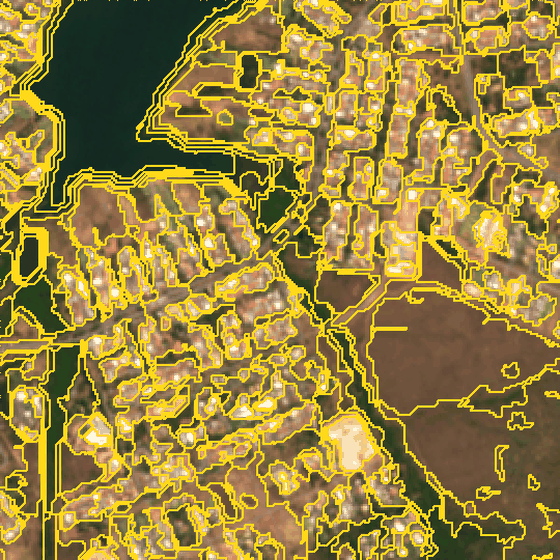
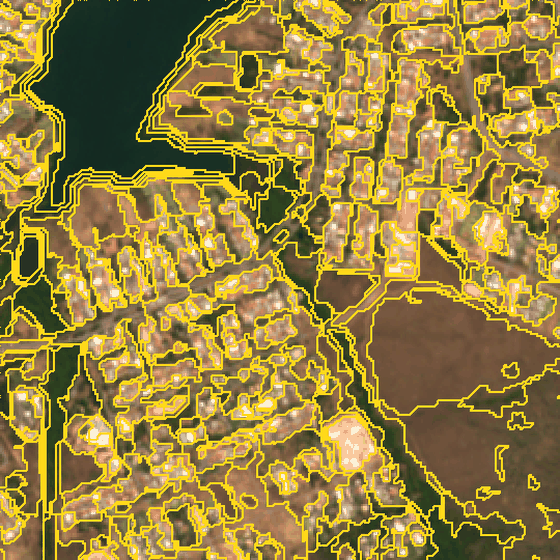
docs(tutorials): the object-based series runs again after the fixes
objects.accuracy with design = objects where the reference comes from
objects.sample (the area estimates weight each object by its area):
adjusted accuracies and areas updated in first-map-by-objects,
classifying-by-samples, classes-without-samples and editing-by-hand;
segment.felzenszwalb now keeps min_size (what-is-an-object: 4,063 ->
1,643 objects); a note on design in from-ecognition; a sentence fixed in
shaping-objects.

diff --git a/website/figures/object-based-image-analysis/editing-by-hand.py b/website/figures/object-based-image-analysis/editing-by-hand.py
@@ -129,7 +129,7 @@ def frozen(src="edit"):
     m = node("feat_a", "objects.features", f'{{ objects = "{src}.objects", image = "refl.image" }}',
              f'{{ features = {tl(FEATURES)}, texture_bands = ["brightness"], swir = "swir16" }}')
     m += node("rf_a", "objects.classify", '{ objects = "feat_a.objects", model = "fit.model", samples = "samples.table" }')
-    m += node("acc_a", "objects.accuracy", '{ objects = "rf_a.objects", samples = "ref.vector" }')
+    m += node("acc_a", "objects.accuracy", '{ objects = "rf_a.objects", samples = "ref.vector" }', '{ design = "objects" }')
     m += node("idmap_a", "objects.to_map", '{ objects = "rf_a.objects" }', '{ what = "id" }')
     return m + node("clsmap_a", "objects.to_map", '{ objects = "rf_a.objects" }', '{ what = "class" }')
 
@@ -141,7 +141,7 @@ def maps(src="feat"):
 
 
 def acc(ref="ref"):
-    return node("acc", "objects.accuracy", f'{{ objects = "rf.objects", samples = "{ref}.vector" }}')
+    return node("acc", "objects.accuracy", f'{{ objects = "rf.objects", samples = "{ref}.vector" }}', '{ design = "objects" }')
 
 
 def run(model, name, writes, log=False):

diff --git a/website/figures/object-based-image-analysis/classes-without-samples.py b/website/figures/object-based-image-analysis/classes-without-samples.py
@@ -222,7 +222,7 @@ def main():
     m += som_nodes(5, ", rows = 8, cols = 8") + named("clsom", SOM_NAMES, "named_som")
     m += train_nodes + ref_nodes + rf
     for a in ("named", "named_som", "rf"):
-        m += node("acc_" + a, "objects.accuracy", f'{{ objects = "{a}.objects", samples = "ref.vector" }}')
+        m += node("acc_" + a, "objects.accuracy", f'{{ objects = "{a}.objects", samples = "ref.vector" }}', '{ design = "objects" }')
     m += node("named_map", "objects.to_map", '{ objects = "named.objects" }', '{ what = "class" }')
     writes = {"cl.map": "km5.tif", "clsom.map": "som8.tif", "rf.map": "rf.tif", "named_map.map": "named_class.tif",
               "km.centres": "centres.csv", "km.choice": "choice1.csv", "som.codebook": "codebook8.csv",
@@ -343,7 +343,7 @@ def main():
 
     # the slider over k
     def acc(src):
-        return node("acc", "objects.accuracy", f'{{ objects = "{src}.objects", samples = "ref.vector" }}')
+        return node("acc", "objects.accuracy", f'{{ objects = "{src}.objects", samples = "ref.vector" }}', '{ design = "objects" }')
 
     frames = []
     for k in range(2, 9):

diff --git a/website/figures/object-based-image-analysis/classifying-by-samples.py b/website/figures/object-based-image-analysis/classifying-by-samples.py
@@ -110,7 +110,7 @@ def nn_node(i="nn", columns=None, extra=""):
 
 
 def acc_node(i, objs, ref="ref"):
-    return node(i, "objects.accuracy", f'{{ objects = "{objs}.objects", samples = "{ref}.vector" }}')
+    return node(i, "objects.accuracy", f'{{ objects = "{objs}.objects", samples = "{ref}.vector" }}', '{ design = "objects" }')
 
 
 def run(model, name, writes, log=False):

diff --git a/website/figures/object-based-image-analysis/first-map-by-objects.py b/website/figures/object-based-image-analysis/first-map-by-objects.py
@@ -129,7 +129,7 @@ params = { path = "check_points_labelled.gpkg" }
 id = "accuracy"
 op = "objects.accuracy"
 inputs = { objects = "classify.objects", samples = "labelled.vector" }
-params = { class = "reference" }
+params = { class = "reference", design = "objects" }
 """
 
 

diff --git a/website/content/tutorials/object-based-image-analysis/classifying-by-samples.md b/website/content/tutorials/object-based-image-analysis/classifying-by-samples.md
@@ -207,7 +207,10 @@ eCognition's default, a rule that looks at colour. Two more settings, `slope` an
 
 [[objects.accuracy]] compares a classified set of objects with the reference. The reference is `samples` (points or
 polygons with the class, resolved to objects as [[objects.samples]] does) or `reference` (a table with the columns `id`
-and `class`). It gives:
+and `class`). Its setting `design` says how the reference was drawn: `objects` (each object of a class had the same chance,
+as [[objects.sample]] draws them, or one point in each of a set of such objects: the adjusted estimates weight each sampled
+object by its area) or `area` (points thrown at random over the map: each counts once). Set it: the page's model says
+`design = "objects"`. It gives:
 
 - `matrix`: the error matrix by objects, a row per class of the map and a column per reference class;
 - `table`: a row per class, with the user's and producer's accuracies (adjusted, with confidence intervals) and the class's
@@ -310,12 +313,14 @@ note = "Nearest samples."
 id = "acc_rf"
 op = "objects.accuracy"
 inputs = { objects = "rf.objects", samples = "ref.vector" }
+params = { design = "objects" }
 note = "Error matrix, accuracies and areas."
 
 [[nodes]]
 id = "acc_nn"
 op = "objects.accuracy"
 inputs = { objects = "nn.objects", samples = "ref.vector" }
+params = { design = "objects" }
 ```
 
 === "Application"
@@ -416,19 +421,20 @@ caption: "Random forest: the area-adjusted user's and producer's accuracies of e
 
 Read the table by class.
 
-- **Cerrado**: user's accuracy 0.90 ± 0.14 and producer's 1.00. The map is reliable for cerrado, and finds all of it. The map has 753 ha of it;
-  the adjusted estimate is 678 ± 102 ha.
-- **Forest**: the user's accuracy is only 0.58 ± 0.20, the producer's 0.90 ± 0.13. The map finds the forest but also calls
-  many other things forest, so its area, **1,117 ha, is too large: the adjusted estimate is 727 ± 247 ha**. That is the
+- **Cerrado**: user's accuracy 0.94 ± 0.14 and producer's 1.00. The map is reliable for cerrado, and finds all of it. The map has 753 ha of it;
+  the adjusted estimate is 705 ± 107 ha.
+- **Forest**: the user's accuracy is only 0.61 ± 0.31, the producer's 0.93 ± 0.14. The map finds the forest but also calls
+  many other things forest, so its area, **1,117 ha, is too large: the adjusted estimate is 735 ± 361 ha**. That is the
   kind of correction the adjusted areas are for.
-- **Urban**: 0.82 and 0.78, the map's 1,229 ha against an estimate of 1,285 ± 283 ha.
+- **Urban**: 0.88 and 0.79, the map's 1,229 ha against an estimate of 1,373 ± 379 ha.
 - **Water**: all the objects the map calls water are water (1.00), but a few real water objects are
-  called forest, so the producer's accuracy is 0.67 ± 0.30 and the estimate, 284 ± 126 ha, is larger than the 191 ha of the map.
-- **Bare soil**: mapped as 74 ha; the estimate is 317 ± 239 ha. The interval says the map knows almost nothing about this class.
+  called forest, so the producer's accuracy is 0.74 ± 0.41 and the estimate, 259 ± 142 ha, is larger than the 191 ha of the map.
+- **Bare soil**: mapped as 74 ha; the estimate is 218 ± 268 ha. The interval says the map knows almost nothing about this class.
 
-The **overall** accuracy by objects is 80.0 %; the area-adjusted one is **76.8 % ± 9.7** (95 %). The two differ because the
-adjusted one weighs each class by how much of the map it covers, and the poorly mapped forest covers a lot. For
-the nearest neighbour, the same reference gives an overall accuracy of 52.5 % (adjusted 49.4 ± 10.6 %, kappa 0.40).
+The **overall** accuracy by objects is 80.0 %; the area-adjusted one is **81.1 % ± 12.6** (95 %). The adjusted one weighs each sampled object by its area and each class
+by how much of the map it covers (`design = "objects"`: every object of a class had the same chance of being drawn); here it
+ends close to the share of objects, with a wider interval. For
+the nearest neighbour, the same reference gives an overall accuracy of 52.5 % (adjusted 50.7 ± 14.4 %, kappa 0.40).
 
 !!! tip "What to report"
     In a paper: the error matrix by objects (the counts), the user's and producer's accuracies with their intervals, the

diff --git a/website/content/tutorials/object-based-image-analysis/classes-without-samples.md b/website/content/tutorials/object-based-image-analysis/classes-without-samples.md
@@ -289,12 +289,14 @@ params = { crs = "EPSG:31983" }
 id = "acc_km"
 op = "objects.accuracy"
 inputs = { objects = "named.objects", samples = "ref.vector" }
+params = { design = "objects" }
 note = "Error matrix of the named k-means."
 
 [[nodes]]
 id = "acc_som"
 op = "objects.accuracy"
 inputs = { objects = "named_som.objects", samples = "ref.vector" }
+params = { design = "objects" }
 ```
 
 === "Application"
@@ -429,8 +431,8 @@ align: { "Map \\ reference": left }
 caption: "Named k-means (k = 5): the 80 reference objects by the class the map gave (rows) and their true class (columns). 63 are on the diagonal. Bare soil has no row of its own: no cluster was named after it."
 ```
 
-The overall accuracy by objects is **78.8 %** (63 of 80), kappa 0.72, and 75.3 % after the area adjustment of
-part 5. Water is right in all 16 objects, cerrado in 18 of 25 (the 7 forest objects that went to cerrado), and the 6 reference
+The overall accuracy by objects is **78.8 %** (63 of 80), kappa 0.72, and 80.9 % after the area adjustment of
+part 5 (`design = "objects"`: the reference has one object per point, each weighted by its area). Water is right in all 16 objects, cerrado in 18 of 25 (the 7 forest objects that went to cerrado), and the 6 reference
 bare soil objects are all called urban, since no cluster is named after them.
 
 Now the same with the self-organizing map and for part 5's forest, on the same reference:
@@ -523,7 +525,7 @@ fell from 1.73 (3 by 3) to 1.43 (8 by 8) and rose again for the bigger grids (1.
 it measures how close the nodes are to the objects, not whether the groups are classes. The topographic error stays at 0.6 % or less
 in all of them, so none of the maps is folded.
 
-The named SOM (8 by 8) gives 80.0 % by objects, kappa 0.74, 77.5 % adjusted: about the same as the k-means and the forest. What
+The named SOM (8 by 8) gives 80.0 % by objects, kappa 0.74, 84.6 % adjusted: the same by objects as the forest, and a few points higher than the k-means (80.9 %) and the forest (81.1 %) once each object counts by its area; with only 80 reference objects it is not a difference to rely on. What
 the SOM adds is the *picture*: the map of the feature space, in which you see how the classes lie to each other, the gaps
 between them and the nodes between two types, which k-means does not show.
 

diff --git a/website/content/tutorials/object-based-image-analysis/what-is-an-object.md b/website/content/tutorials/object-based-image-analysis/what-is-an-object.md
@@ -290,7 +290,7 @@ caption: "Outlines of five segmenters over the same part of the clip. Multiresol
 images:
   - { src: /img/tutorials/object-based-image-analysis/what-is-an-object/seg_mr.png, caption: "Multiresolution, 3,035 objects" }
   - { src: /img/tutorials/object-based-image-analysis/what-is-an-object/seg_slic.png, caption: "SLIC, 2,270 objects" }
-  - { src: /img/tutorials/object-based-image-analysis/what-is-an-object/seg_fz.png, caption: "Felzenszwalb, 4,063 objects" }
+  - { src: /img/tutorials/object-based-image-analysis/what-is-an-object/seg_fz.png, caption: "Felzenszwalb, 1,643 objects" }
   - { src: /img/tutorials/object-based-image-analysis/what-is-an-object/seg_ws.png, caption: "Watershed, 747 objects" }
   - { src: /img/tutorials/object-based-image-analysis/what-is-an-object/seg_th.png, caption: "Threshold (NDWI), 12 objects" }
 ```
@@ -368,7 +368,7 @@ csv: |
   segmenter,objects,mean_ha,good_at
   Multiresolution,3035,1.11,Objects whose size follows the local variation
   SLIC,2270,1.48,"Even, compact tiles; a fast first cut"
-  Felzenszwalb,4063,0.83,"Thin and long things (streams, roads) kept whole"
+  Felzenszwalb,1643,2.05,"Thin and long things (streams, roads) kept whole"
   Watershed,747,4.50,Objects bounded by strong edges
   Threshold,12,280.33,One band cut at its own natural gap (water)
 ```
@@ -403,7 +403,7 @@ an edge weighted with the difference of their bands. Taking the edges from the l
 when the edge is not heavier than the largest difference **inside** either of them plus `k` divided by its size, so a
 small component joins easily and a large one needs a closer match. Segments under `min_size` cells (20 by default)
 are then merged into a neighbour. Because the rule looks at the heaviest edge inside, a thin line of similar cells,
-such as a stream or a road, can stay whole, and the sizes vary a lot. The outlines are ragged, with many tiny objects, as
+such as a stream or a road, can stay whole, and the sizes vary a lot. The outlines are ragged, as
 the figure shows in the neighbourhoods.
 
 ### Watershed

diff --git a/website/content/tutorials/object-based-image-analysis/first-map-by-objects.md b/website/content/tutorials/object-based-image-analysis/first-map-by-objects.md
@@ -214,7 +214,7 @@ params = { path = "check_points_labelled.gpkg" }
 id = "accuracy"
 op = "objects.accuracy"
 inputs = { objects = "classify.objects", samples = "labelled.vector" }
-params = { class = "reference" }
+params = { class = "reference", design = "objects" }
 ```
 
 <div class="steps" markdown>
@@ -258,7 +258,11 @@ are right more often than the rest of the map.
 
 The matrix is read row by row: of the 32 objects the map called grassland, 20 are grassland, 5 are cropland, 3 forest,
 3 water and 1 urban. Those objects are mostly on the borders, which the margin map showed. The other tables hold the user's and
-producer's accuracies and the areas with their confidence intervals. To report an accuracy, give the overall number
+producer's accuracies and the areas with their confidence intervals. `design = "objects"` tells [[objects.accuracy]] how the
+sample was drawn (every object of a class had the same chance, as [[objects.sample]] does it), so that the area estimates
+weight each sampled object by its area. Here the sample is **every** object, so the area estimates have no sampling error:
+the intervals are 0, and the area-weighted overall accuracy is 96.4 %, against 81.9 % by objects, because the large
+objects are the ones the forest gets right. With a real sample the intervals are not 0. To report an accuracy, give the overall number
 with its interval, the matrix, and how the sample was drawn.
 
 ## Take the polygons

diff --git a/website/content/tutorials/object-based-image-analysis/from-ecognition.md b/website/content/tutorials/object-based-image-analysis/from-ecognition.md
@@ -58,7 +58,7 @@ before it gives.
 | Grow region | [[objects.grow]] (`class` and a `condition` on the candidate neighbour) |
 | Remove objects, find small objects | [[objects.remove_small]] (`min_cells` or `min_area`, `into` the most similar neighbour or the longest border) |
 | Assign class, classification | [[objects.rules]], [[objects.nearest]], [[objects.classify]] (the class and its membership are attributes of the objects); [[objects.reclassify]] renames, recolours and merges classes |
-| Accuracy assessment, error matrix | [[objects.sample]] (the stratified sample to label) and [[objects.accuracy]]: confusion matrix, user's and producer's accuracy, kappa, and the area of each class with its confidence interval |
+| Accuracy assessment, error matrix | [[objects.sample]] (the stratified sample to label) and [[objects.accuracy]]: confusion matrix, user's and producer's accuracy, kappa, and the area of each class with its confidence interval (`design` says how the sample was drawn: `objects`, as [[objects.sample]] does, or `area`, points at random over the map) |
 | Export vector layer, export raster | [[objects.to_vector]] and [[vector.write]]; [[objects.to_map]] and [[raster.write]] |
 | Loop while something changes | `control.repeat` with `until` set to the `done` output of [[objects.merge]], [[objects.grow]] or [[objects.remove_small]] |
 

diff --git a/website/content/tutorials/object-based-image-analysis/shaping-objects.md b/website/content/tutorials/object-based-image-analysis/shaping-objects.md
@@ -404,7 +404,7 @@ block of the figure is the last of the gallery above.
 Two things to know when you read the result.
 
 - The objects the chain gives have **no attributes**: `objects.resize` makes new objects out of old cells, so the table of
-  means is not the old one, and the level above, if there was one, is dropped (with a warning). The model ends with
+  means is not the old one, and the level above, if there was one, is dropped (with a warning). The page's script ends the chain with
   [[objects.features]] on the shaped objects, to rebuild the attributes. The area-weighted *compactness* of the built-up
   patches (length times width over area, 1 for a rectangle) goes from **2.31 to 1.90**.
 - A shaped class **is not the class the rules gave**. The chain added 9,958 built-up cells (99.6 ha): read it as an

diff --git a/website/content/tutorials/object-based-image-analysis/editing-by-hand.md b/website/content/tutorials/object-based-image-analysis/editing-by-hand.md
@@ -289,6 +289,7 @@ note = "The class of every object."
 id = "acc"
 op = "objects.accuracy"
 inputs = { objects = "rf.objects", samples = "ref.vector" }
+params = { design = "objects" }
 note = "The accuracy against the reference points."
 ```
 
